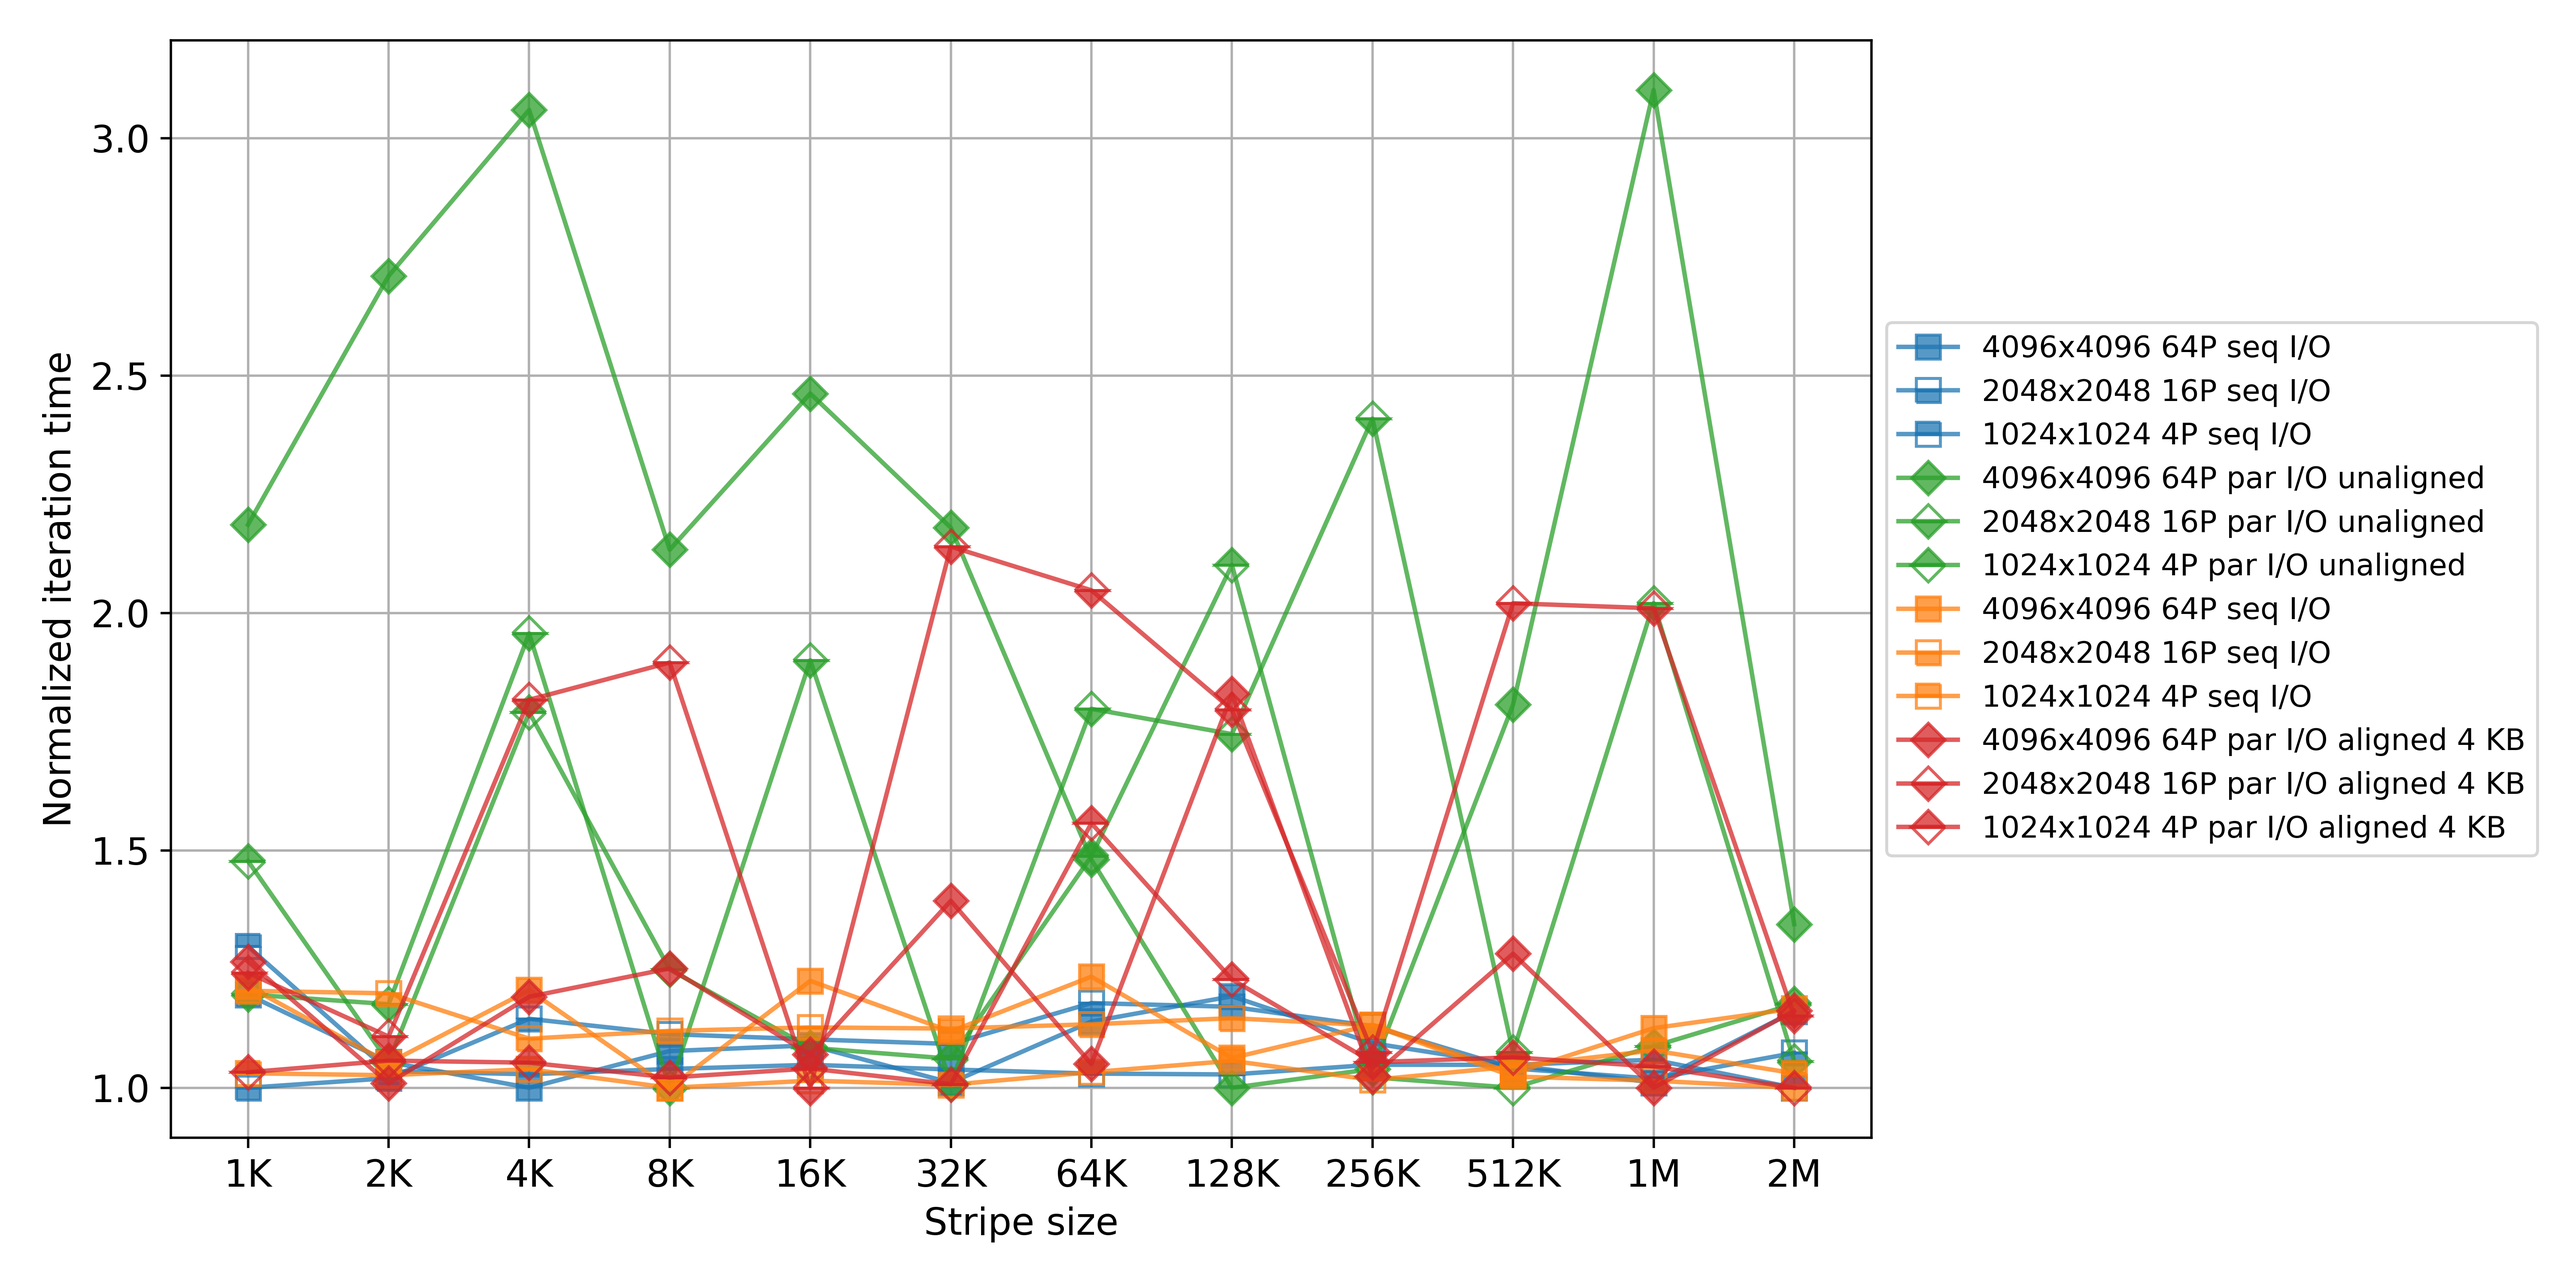
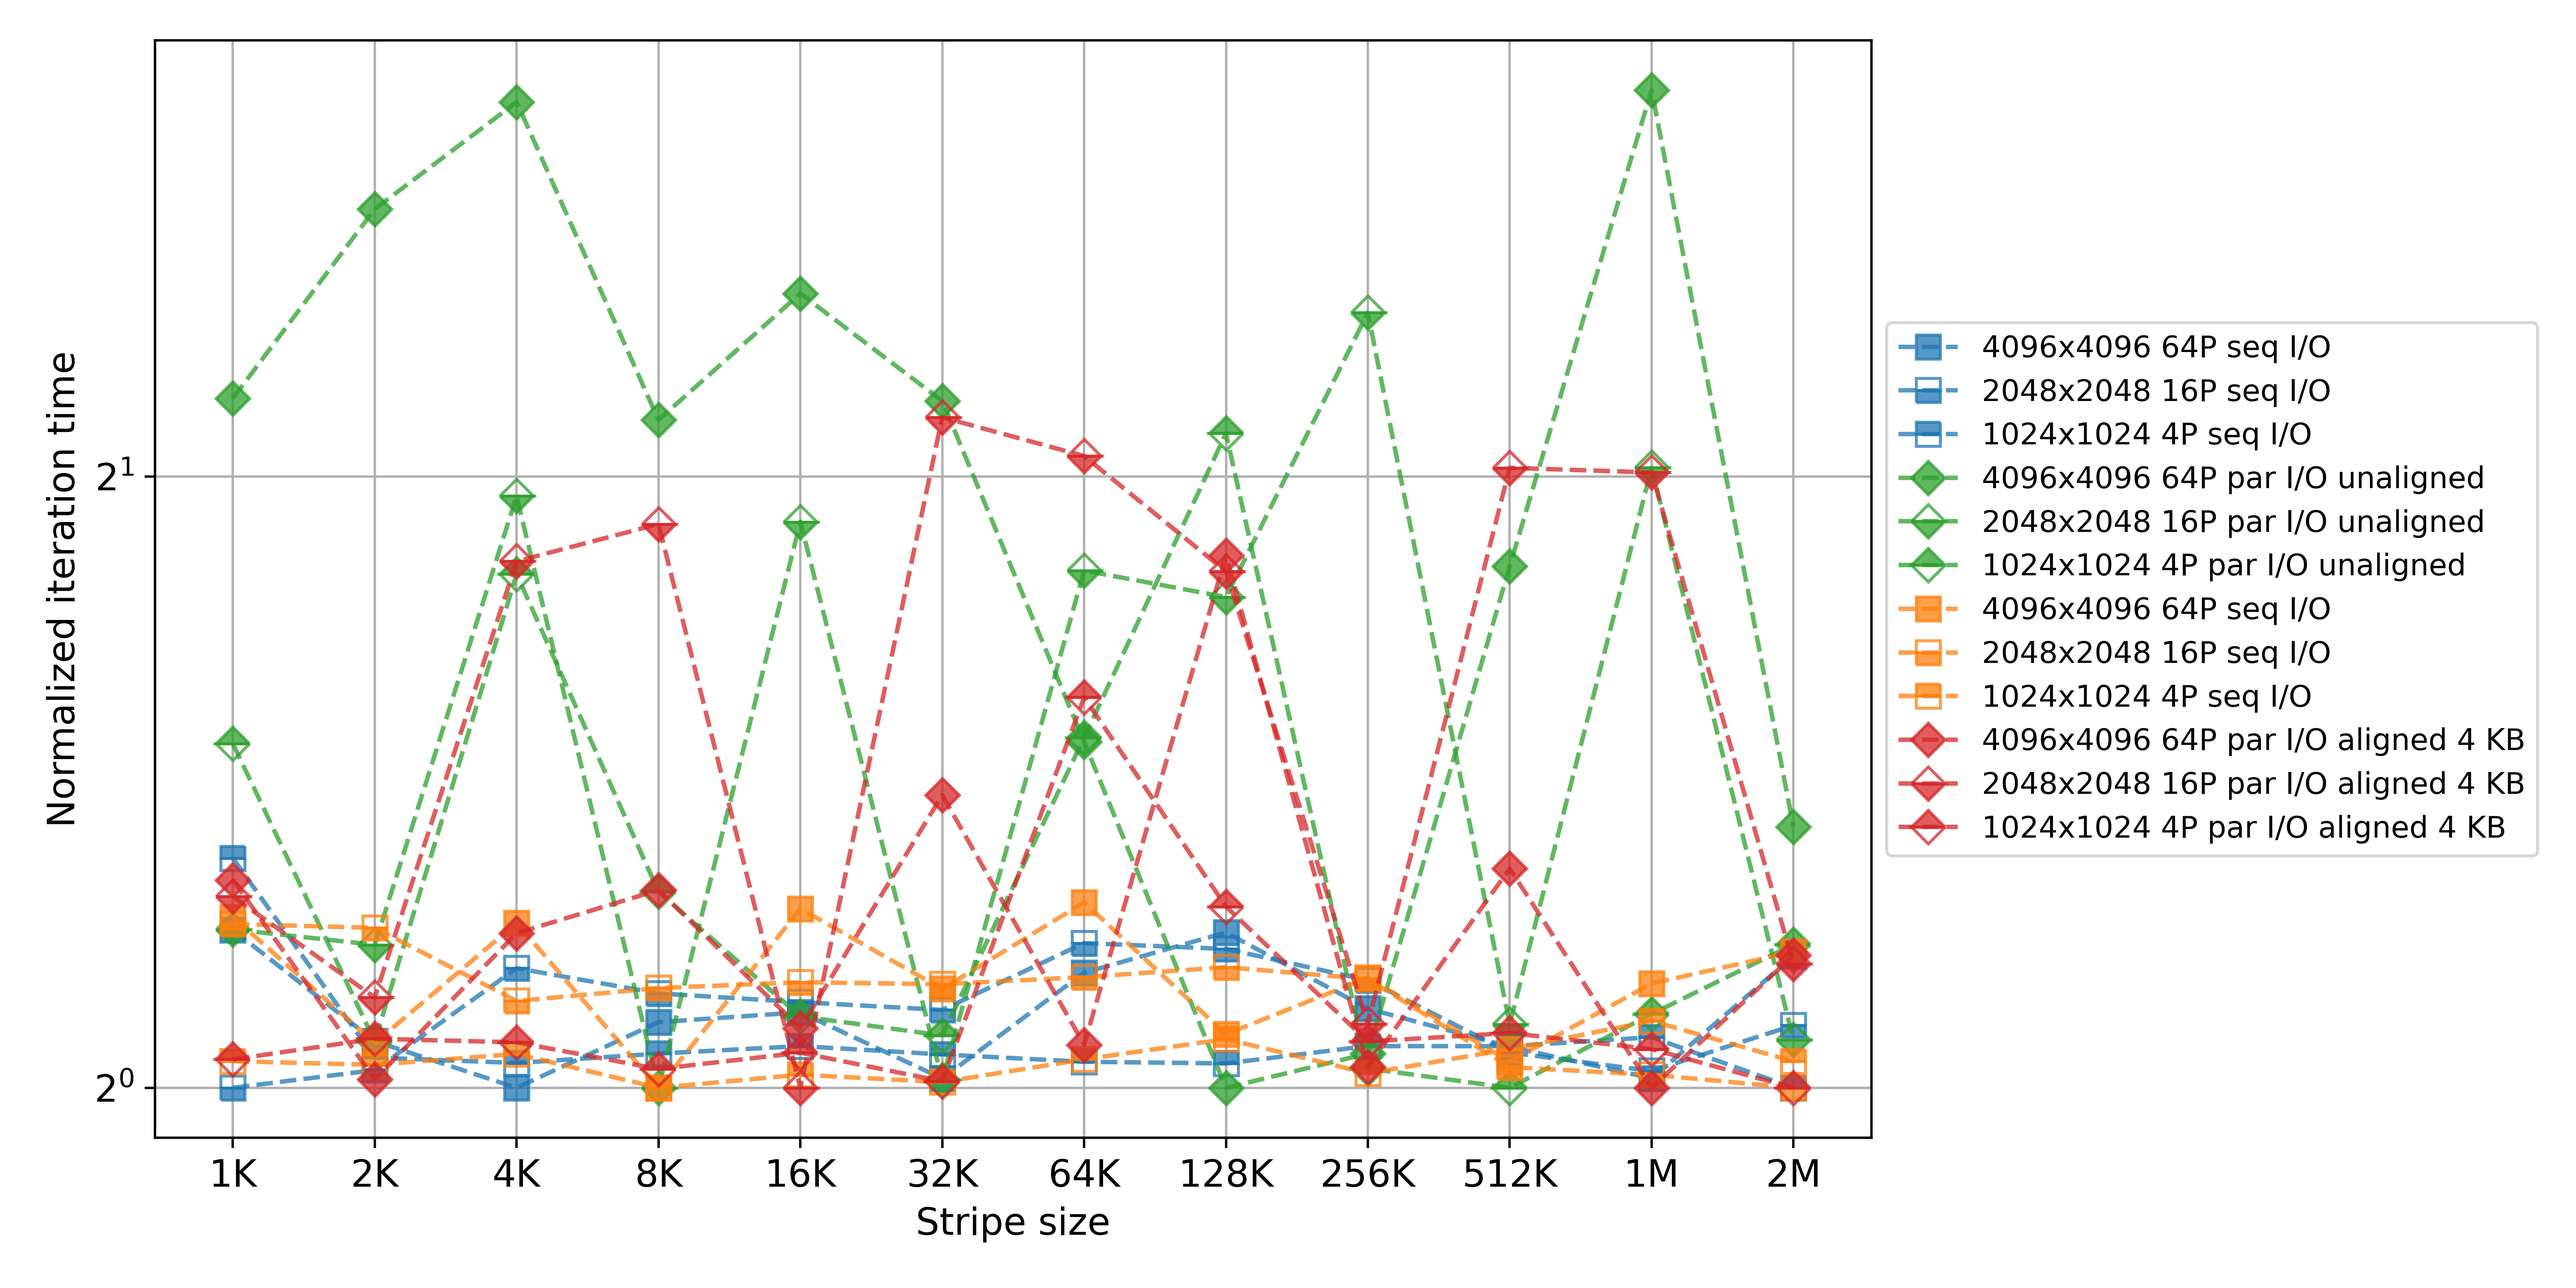
main-Score-P profiling

diff --git a/heat_propagation/selected_results/plot_weak_scaling.py b/heat_propagation/selected_results/plot_weak_scaling.py
@@ -17,9 +17,9 @@ matplotlib.rc('figure', titlesize=LARGE_SIZE)
 df = pd.read_csv("weak_scaling.csv", sep=";")
 df = df[["decomposition", "mpi_procs", "omp_threads", "iteration_time"]]
 df["mpi_procs"] *= df["omp_threads"]
-df_mpi_2d = df[df["decomposition"] == "2D"]
+df_mpi_2d = df[df["decomposition"] == "2D"].copy()
 df_mpi_2d.reset_index(drop=True, inplace=True)
-df_hybrid_1d = df[df["decomposition"] == "1D"]
+df_hybrid_1d = df[df["decomposition"] == "1D"].copy()
 df_hybrid_1d.reset_index(drop=True, inplace=True)
 
 all_processors = df["mpi_procs"].unique()
@@ -48,10 +48,10 @@ ideal_times = np.ones_like(all_processors)
 
 plt.figure(figsize=(6, 6))
 plt.title("Weak scaling", {"fontsize": LARGE_SIZE})
-plt.plot(all_processors, ideal_times, label="Perfect scaling", linestyle="--", marker="o", markersize=8)
-plt.plot(df_hybrid_1d["mpi_procs"], df_hybrid_1d["iteration_time"], label="Hybrid 1D RMA", marker="s", markersize=8)
-plt.plot(df_mpi_2d["mpi_procs"], df_mpi_2d["iteration_time"], label="MPI 2D RMA", marker="D", markersize=8)
-plt.xlabel("Number of processors")
+plt.plot(all_processors, ideal_times, label="Perfect scaling")
+plt.plot(df_hybrid_1d["mpi_procs"], df_hybrid_1d["iteration_time"], label="Hybrid 1D RMA", marker="s", markersize=8, linestyle="--")
+plt.plot(df_mpi_2d["mpi_procs"], df_mpi_2d["iteration_time"], label="MPI 2D RMA", marker="D", markersize=8, linestyle="--")
+plt.xlabel("Number of processes")
 plt.xscale("log", base=2)
 plt.ylim(1 / 2**4.2, 2**4.2)
 plt.ylabel("Normalized iteration time")

diff --git a/heat_propagation/selected_results/plot_strong_scaling.py b/heat_propagation/selected_results/plot_strong_scaling.py
@@ -24,7 +24,7 @@ plt.title("Strong scaling", {"fontsize": LARGE_SIZE})
 processors = df["mpi_procs"].unique()
 ideal_times = np.ones_like(processors)
 ideal_times = ideal_times / processors
-plt.plot(processors, ideal_times, label="Perfect scaling", linestyle="--", marker="o", markersize=8)
+plt.plot(processors, ideal_times, label="Perfect scaling")
 
 for decomposition, launch_type, color, marker in zip(["1D", "2D"], ["Hybrid", "MPI"], list(mcolors.TABLEAU_COLORS.keys())[1:], ["s", "D"]):
     df_decomposition = df[df["decomposition"] == decomposition]
@@ -32,9 +32,9 @@ for decomposition, launch_type, color, marker in zip(["1D", "2D"], ["Hybrid", "M
         df_domain = df_decomposition[df_decomposition["domain_size"] == domain_size].copy()
         df_domain.reset_index(drop=True, inplace=True)
         df_domain.loc[:, "iteration_time"] /= df_domain.loc[0, "iteration_time"]
-        plt.plot(df_domain["mpi_procs"], df_domain["iteration_time"], label=f"{launch_type} {decomposition} {domain_size}x{domain_size} RMA", marker=marker, markersize=8, color=color, fillstyle=marker_fill)
+        plt.plot(df_domain["mpi_procs"], df_domain["iteration_time"], label=f"{launch_type} {decomposition} {domain_size}x{domain_size} RMA", marker=marker, markersize=8, color=color, fillstyle=marker_fill, linestyle="--")
 
-plt.xlabel("Number of processors")
+plt.xlabel("Number of processes")
 plt.xscale("log", base=2)
 plt.ylabel("Normalized iteration time")
 plt.yscale("log", base=2)

diff --git a/heat_propagation/selected_results/plot_fs_settings.py b/heat_propagation/selected_results/plot_fs_settings.py
@@ -27,10 +27,11 @@ for i, filename, alignment in zip([0, 1], ["fs_comparison", "fs_comparison_align
             df_domain = df_output[df_output["domain_size"] == domain_size].copy()
             df_domain.reset_index(drop=True, inplace=True)
             df_domain.loc[:, "iteration_time"] /= df_domain["iteration_time"].min()
-            plt.plot(df_domain["iteration_time"], label=f"{domain_size}x{domain_size} {df_domain['mpi_procs'][0]}P {output_type} I/O {alignment if output_type == 'par' else ''}", marker=marker, markersize=8, color=color, fillstyle=marker_fill, alpha=0.75)
+            plt.plot(df_domain["iteration_time"], label=f"{domain_size}x{domain_size} {df_domain['mpi_procs'][0]}P {output_type} I/O {alignment if output_type == 'par' else ''}", marker=marker, markersize=8, color=color, fillstyle=marker_fill, alpha=0.75, linestyle="--")
 
 ax.set_xlabel("Stripe size")
 ax.set_ylabel("Normalized iteration time")
+ax.set_yscale("log", base=2)
 ax.set_xticks(np.arange(0, len(fs_settings), 1), fs_settings)
 ax.legend(loc="center left", bbox_to_anchor=(1, 0.5), ncol=1, fancybox=True, prop={'size': 10})
 plt.grid()

diff --git a/heat_propagation/sources/ParallelHeatSolver.hpp b/heat_propagation/sources/ParallelHeatSolver.hpp
@@ -27,7 +27,7 @@
 #define DATA_TYPE_EXCHANGE (0)  // 1 - use MPI datatypes for halo exchange (UNSAFE), 0 - use raw data for halo exchange
 #define RAW_EXCHANGE (!DATA_TYPE_EXCHANGE)
 
-#define MEASURE_HALO_ZONE_COMPUTATION_TIME (1) // 1 - measure halo zone computation time, 0 - do not measure halo zone computation time
+#define MEASURE_HALO_ZONE_COMPUTATION_TIME (0) // 1 - measure halo zone computation time, 0 - do not measure halo zone computation time
 
 /**
  * @brief The ParallelHeatSolver class implements parallel MPI based heat

diff --git a/life/life.cpp b/life/life.cpp
@@ -153,9 +153,8 @@ LifeSimulation::initializeGridTopology()
         MPI_Comm_split(MPI_COMM_WORLD, color, _worldRank, &_subWorldComm);
     }
 
-    _sizes.nodesEdgeCount = msbPosition >> 1;
-    int dimensions = 1 << _sizes.nodesEdgeCount;
-    MPI_Cart_create(_subWorldComm, 2, {dimensions, dimensions}, {0, 0}, 0, &_gridComm);
+    _sizes.nodesEdgeCount = 1 << (msbPosition >> 1);
+    MPI_Cart_create(_subWorldComm, 2, {_sizes.nodesEdgeCount, _sizes.nodesEdgeCount}, {0, 0}, 0, &_gridComm);
 }
 
 LifeSimulation::readInputFile()

diff --git a/heat_propagation/selected_results/plot_halo_computation_delay.py b/heat_propagation/selected_results/plot_halo_computation_delay.py
@@ -35,7 +35,7 @@ for df, launch_type, color in zip(dfs, ["1D hybrid", "2D MPI"], list(mcolors.TAB
         df_mode.loc[:, "halo_delay"] /= min
         ax.plot(df_mode["mpi_procs"], df_mode["halo_delay"], label=f"{launch_type} P2P {domain_size}x{domain_size}", marker=marker, markersize=7, color=color, linestyle="--")
 
-ax.set_xlabel("Number of processors")
+ax.set_xlabel("Number of processes")
 ax.set_xscale("log", base=2)
 ax.set_ylabel("Normalized halo computation time")
 ax.set_yscale("log", base=2)
